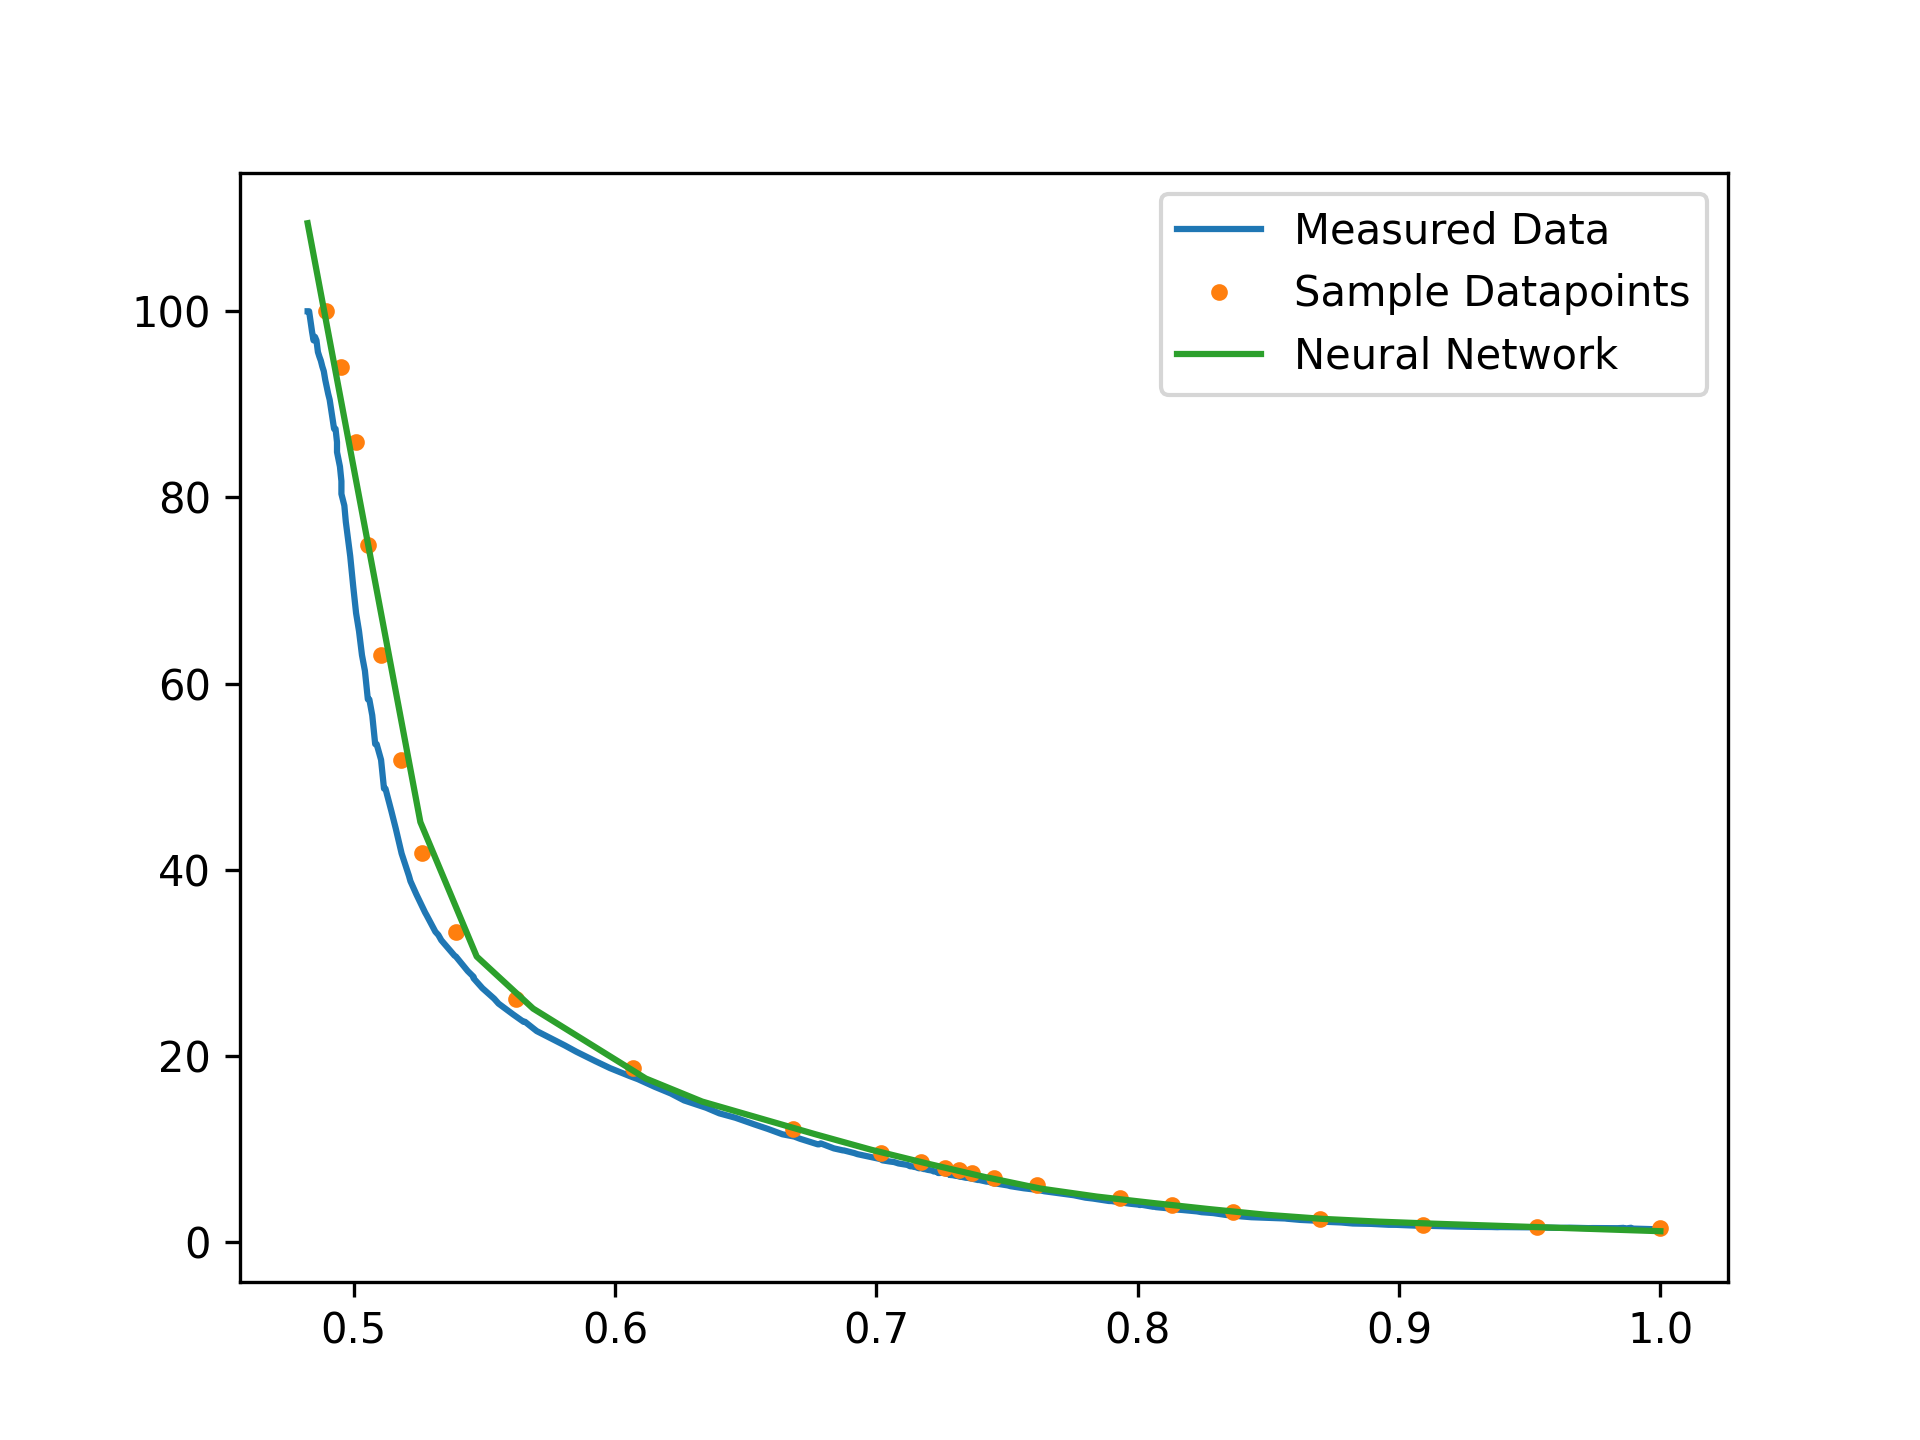
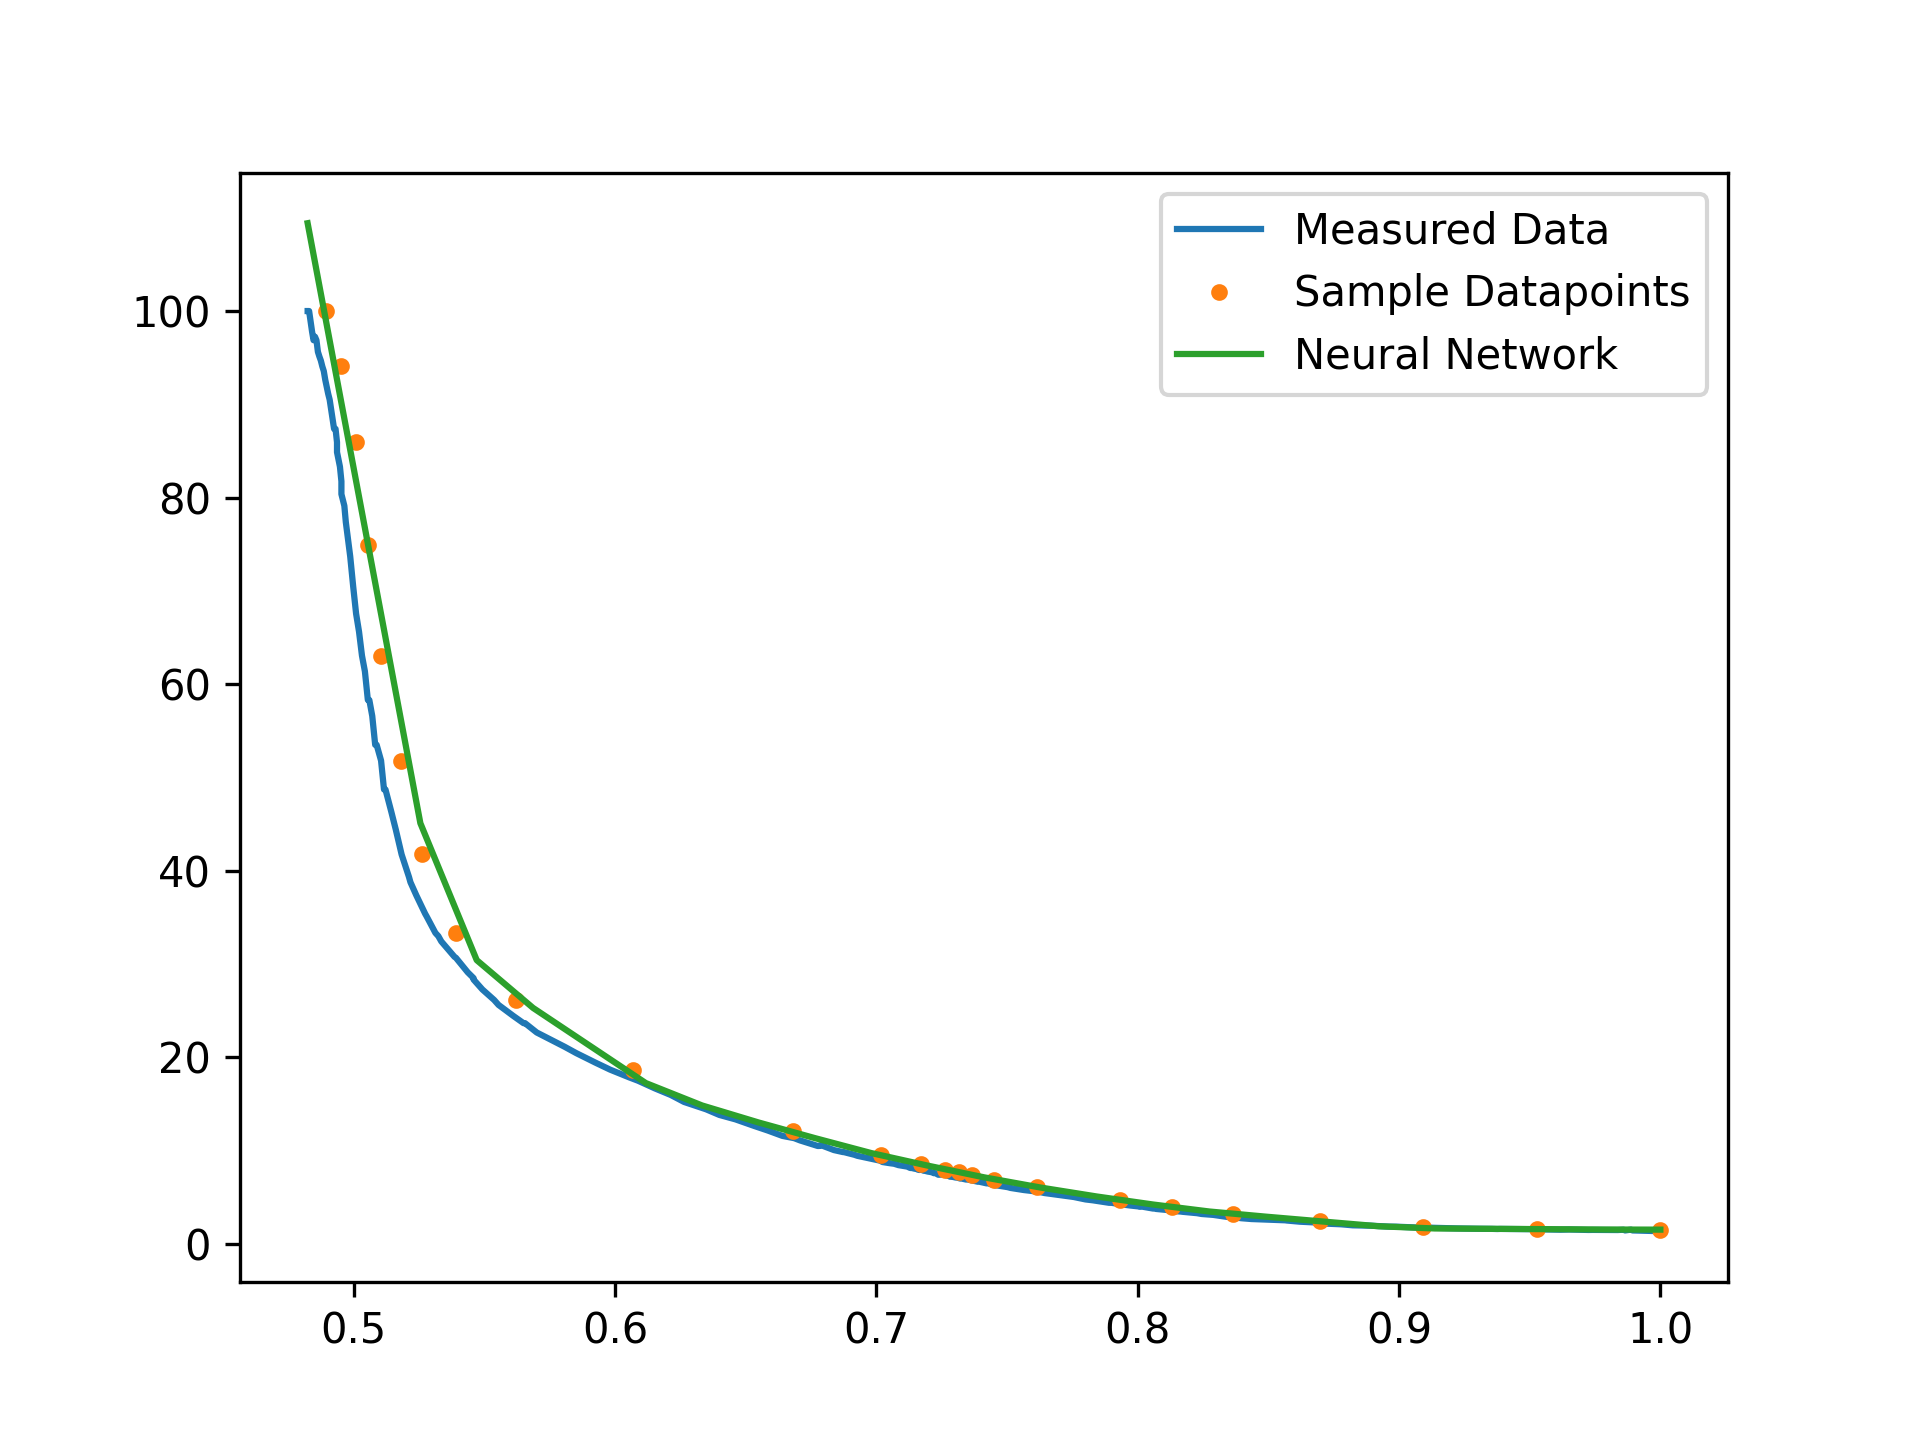
Interpolation of data to generate same length datapoints

diff --git a/model_pinn_test.py b/model_pinn_test.py
@@ -20,21 +20,23 @@ TO-DO / IDEAS:
 
 # Import all necessary libraries
 
-import os
-import random
-import datetime
+import  os
+import  random
+import  datetime
 
-import numpy as np
-import pandas as pd
-import matplotlib.pyplot as plt
+import  numpy               as      np
+import  pandas              as      pd
+import  matplotlib.pyplot   as      plt
 
-import torch
-import torch.nn as nn
+from    scipy               import  interpolate
+
+import  torch
+import  torch.nn            as      nn
 
 # Fully-Connected Neural Network
 class PINN(nn.Module):
     # Initialization function
-    def __init__(self, in_shape):
+    def __init__(self, in_shape, size):
         # Initialize parent modules
         super().__init__()
         # Define the forward pass of the network sequentially
@@ -49,6 +51,9 @@ class PINN(nn.Module):
         )
         # Trainable parameters
         self.alpha = nn.Parameter(torch.tensor([1.0], dtype=torch.float32), requires_grad=True)
+        self.beta = nn.Parameter(torch.tensor([1.0], dtype=torch.float32), requires_grad=True)
+        # Trainable time-vectors
+        self.water_content = nn.Parameter(torch.randn(size, dtype=torch.float32), requires_grad=True)
 
     def forward(self, x):
         # Return model's response to tensor
@@ -80,19 +85,37 @@ for row in df.itertuples(index=False, name="Pandas"):
         datay.append( getattr(row, "H_val") )
 
 # Ignore first few datapoints (seem to be problematic)
-#datax = datax[10:]
-#datay = datay[10:]
+datax = np.array(datax[10:])
+datay = np.array(datay[10:])
 
-datax = np.linspace(0,10,50)
-datay = np.exp(-0.25*datax)
+# Remove any duplicate values of x
+_, unique_indices = np.unique(datax, return_index=True)
+# Use only unique indices for data
+datax = datax[unique_indices]
+datay = datay[unique_indices]
+
+# Normalize datax to range [0,1]
+datax -= np.min(datax)
+datax /= np.max(datax)
+
+# Interpolate data
+n_datapoints = 250
+interp = interpolate.interp1d(datax, datay, kind="linear")
+datax = np.linspace(min(datax), max(datax), n_datapoints)
+datay = interp(datax)
 
 # Extract some values to use as training points (take every n-th data point)
-n_sep = 10
+n_sep = 5
 datax_train = datax[0::n_sep]
 datay_train = datay[0::n_sep]
+
 # Only consider first few points
 #datax_train = datax_train[:8]
 #datay_train = datay_train[:8]
+
+# Normalize datax_train values (between 0 and 1)
+#datax_train = datax_train / np.max(datax_train)
+#datax = datax / np.max(datax)
 
 # Convert to tensors
 datax_train_t = torch.from_numpy(np.array(datax_train, dtype=float)).type(dtype=torch.float32).view(-1,1)
@@ -111,7 +134,7 @@ torch.manual_seed(seed)
 random.seed(seed)
 
 # Initialize model
-model = PINN(in_shape = 1) # len(datax_train_t))
+model = PINN(in_shape = 1, size = len(datax))
 
 # Optimizer hyperparameters
 learning_rate = 0.001
@@ -121,8 +144,8 @@ optimizer = torch.optim.Adam(model.parameters(), lr=learning_rate)
 # Training hyperparameters
 epochs = 10000
 # Physics loss weight
-alpha_data = 0.5
-alpha_phys = 0.5
+alpha_data = 0
+alpha_phys = 1
 
 # Training loop
 for epoch in range(epochs):
@@ -142,7 +165,7 @@ for epoch in range(epochs):
     # First derivative (dy/dx)
     dy = torch.autograd.grad(out_physics, datax_physics, torch.ones_like(out_physics), create_graph=True)[0]
     # Residual of differential equation
-    res = dy + model.alpha * out_physics
+    res = dy - model.water_content + model.beta * out_physics
     # Compute physics loss
     loss_physics = torch.mean(res ** 2)
 
@@ -156,10 +179,13 @@ for epoch in range(epochs):
     optimizer.step()
 
     # Print epoch info
-    print("Epoch ", epoch, "Loss ", loss.item(), "a = ", model.alpha.item())
+    print("Epoch ", epoch, "Loss ", loss.item())
+    # Print model's parameters
+    print("Alpha: ", model.alpha.item())
+    print("Beta: ", model.beta.item())
+    print("Water Content: ", model.water_content)
 
 plt.plot(datax_physics.detach().numpy(), out_physics.detach().numpy(), label="Neural Network")
-plt.plot(datax_physics.detach().numpy(), np.exp(-model.alpha.detach().numpy()*datax_physics.detach().numpy()), label="Function Predicted")
 plt.legend()
-plt.savefig("./graph_out/exponential.png", dpi=300)
+#plt.savefig("./graph_out/humidity.png", dpi=300)
 plt.show()

diff --git a/model_pinn.py b/model_pinn.py
@@ -20,16 +20,41 @@ TO-DO / IDEAS:
 
 # Import all necessary libraries
 
-import os
-import random
-import datetime
+import  os
+import  random
+import  datetime
 
-import numpy as np
-import pandas as pd
-import matplotlib.pyplot as plt
+import  numpy               as np
+import  pandas              as pd
+import  matplotlib.pyplot   as plt
 
-import torch
-import torch.nn as nn
+import  torch
+import  torch.nn            as nn
+from    torch.utils.data    import Dataset
+
+# Custom class for loading time-series from each file
+class DryingDataset(Dataset):
+
+    # Initialization function
+    def __init__(self, directory):
+
+        # Initialize parent class
+        super().__init__()
+
+        # Initialize directory
+        self.directory = directory
+
+        return
+    
+    # Size of dataset (numer of all time-series / files)
+    def __len__(self):
+
+        return
+    
+    # Get single time-series / file from dataset
+    def __getitem__(self, index):
+
+        return
 
 # Fully-Connected Neural Network
 class PINN(nn.Module):
